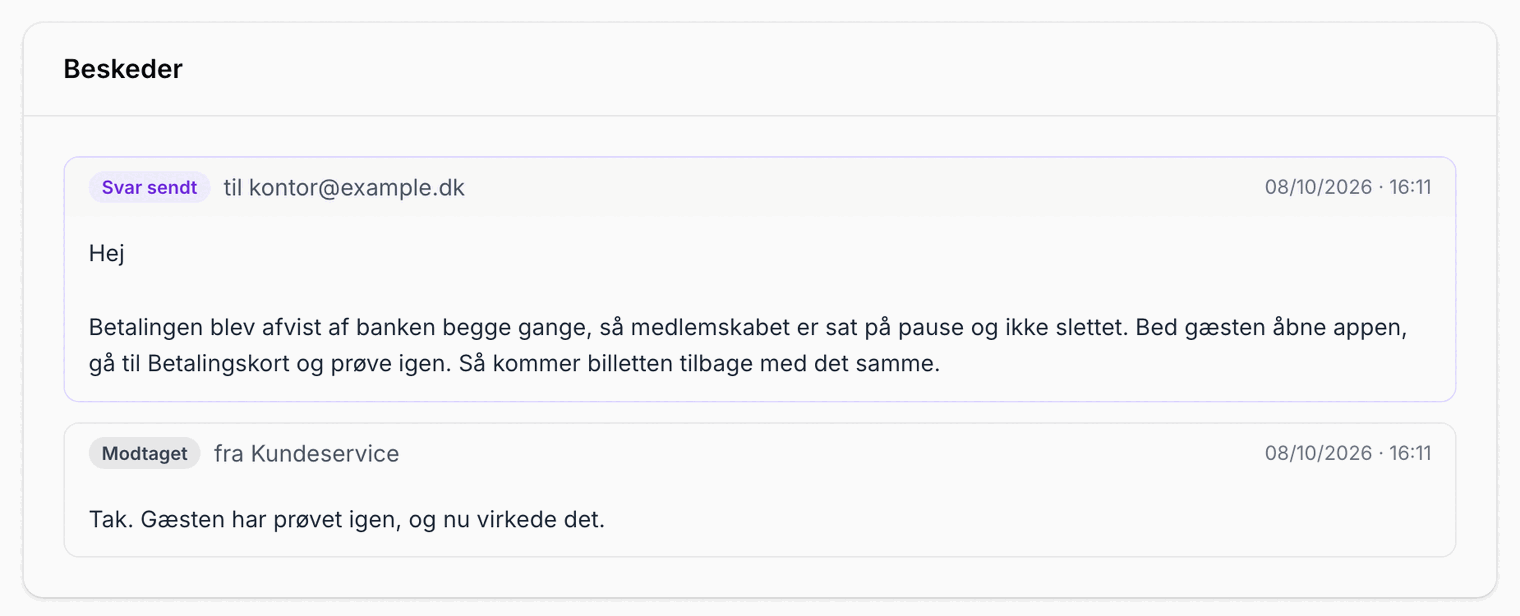
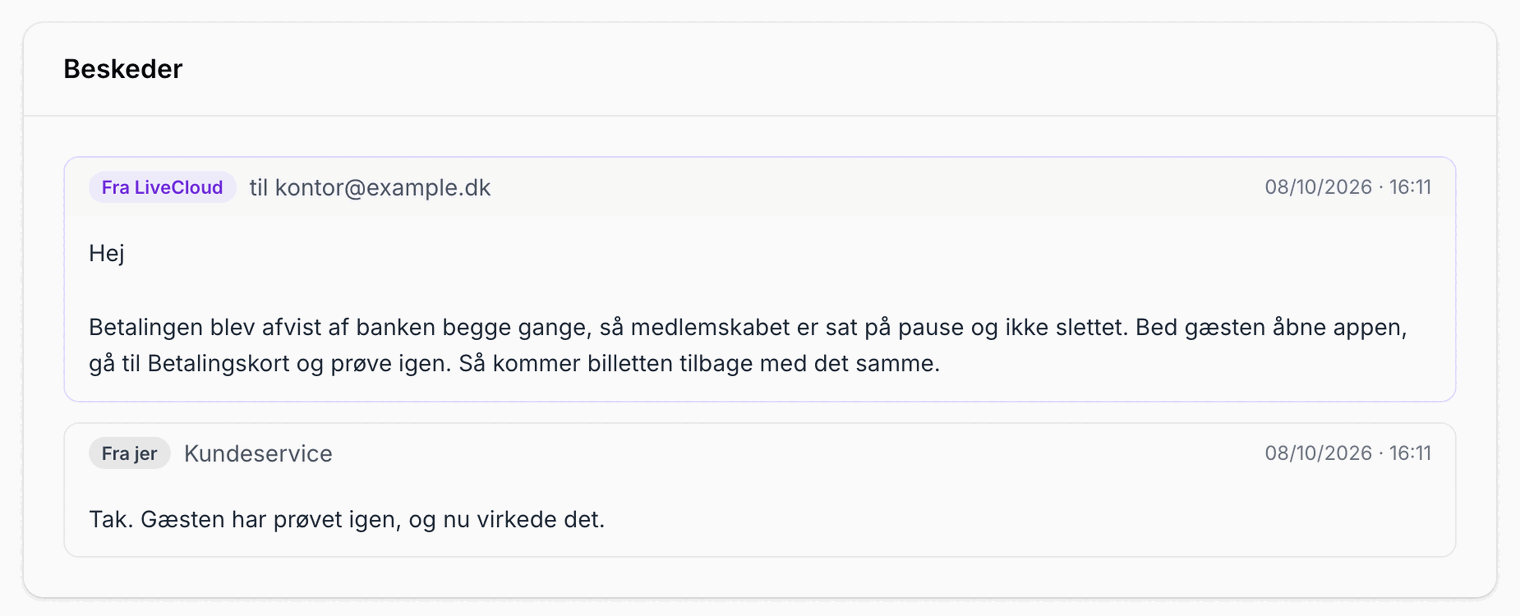
docs(guides): support guide - write on the case in the system, new message labels

Changed region(s): [[0.0618, 0.2776, 0.3401, 0.3393], [0.0618, 0.7094, 0.2474, 0.7711]]

diff --git a/personale-guides/support-kundeservice.html b/personale-guides/support-kundeservice.html
@@ -171,7 +171,7 @@
     <li>Tryk <span class="chip">Opret</span>.</li>
   </ol>
   <p class="warn"><b>Haster det, og rammer det mange gæster?</b> Sæt <b>Prioritet</b> til <span class="chip">Akut</span>, og slå <b>Det blokerer gæster lige nu</b> til, før I trykker Opret.</p>
-  <p class="ctx">Brug <span class="chip">Opret sag</span> og ikke <span class="chip">Opret hurtigt</span>. En hurtig sag har kun en overskrift, og resten kan I ikke selv fylde på bagefter.</p>
+  <p class="ctx">Svaret fra LiveCloud kommer på sagen og som mail til den, der oprettede sagen.</p>
   <div class="shots"><figure class="narrow">
     <img src="img/support-system/meld-en-fejl.png" alt="Formularen Meld en fejl" width="1520" height="1997" loading="lazy">
     <figcaption><b>Formularen "Meld en fejl".</b> Felter med en stjerne skal udfyldes.</figcaption>
@@ -209,18 +209,18 @@
   </table>
   <div class="shots"><figure>
     <img src="img/support-system/beskeder.png" alt="Beskeder på en sag" width="1520" height="616" loading="lazy">
-    <figcaption><b>Beskeder.</b> "Svar sendt" er LiveClouds svar til jer. "Modtaget" er det, I har skrevet.</figcaption>
+    <figcaption><b>Beskeder.</b> "Fra LiveCloud" er svaret til jer. "Fra jer" er det, I selv har skrevet.</figcaption>
   </figure></div>
   </div>
 
   <div class="unit">
   <h3 id="svar">Svar og nye oplysninger</h3>
+  <p class="ctx">I kan skrive videre på en sag på to måder. Begge lander under <b>Beskeder</b> på sagen.</p>
   <ol class="steps">
-    <li>Svar på mailen fra LiveCloud Support.</li>
-    <li>Behold sagens nummer i emnefeltet, fx <b>[SUP-1006]</b>.</li>
-    <li>Send. Svaret lander på samme sag under <b>Beskeder</b>.</li>
+    <li><b>I systemet:</b> åbn sagen, og tryk <span class="chip">Skriv til LiveCloud</span>. Skriv beskeden, og tryk <span class="chip">Send</span>.</li>
+    <li><b>Pr. mail:</b> svar på mailen fra LiveCloud Support, og behold sagens nummer i emnefeltet, fx <b>[SUP-1006]</b>.</li>
   </ol>
-  <p class="ctx">Er sagen løst eller lukket, åbner den igen af sig selv, når I svarer. Knappen <span class="chip">Svar indmelder</span> bruges af LiveCloud. Den sender en mail til den, der meldte sagen.</p>
+  <p class="ctx">Sagen bliver markeret hos LiveCloud som afventer svar. Er sagen løst eller lukket, åbner den igen af sig selv.</p>
   </div>
 
   <div class="unit">
@@ -275,7 +275,7 @@
     <li><b>Jeres spørgsmål øverst.</b> Gæstens mail kommer nedenunder, videresendt i sin helhed.</li>
     <li><b>Ordrenummer og gæstens e-mail med hver gang.</b> Så kan LiveCloud finde gæsten uden at spørge jer.</li>
     <li><b>Aldrig CPR-numre, kortnumre eller adgangskoder.</b> Har gæsten selv skrevet dem, så slet dem, før I videresender.</li>
-    <li><b>Følg op på sagen, ikke i en ny mail.</b> Behold sagens nummer i emnefeltet.</li>
+    <li><b>Følg op på sagen, ikke i en ny mail.</b> Skriv på sagen, eller svar på mailen med sagens nummer i emnefeltet.</li>
     <li><b>Kig under Samme problem først.</b> Står løsningen der, behøver I ikke at vente på svar.</li>
     <li><b>Markér sagen som løst,</b> når gæsten har fået svar.</li>
   </ul>
@@ -287,9 +287,9 @@
     <tr><th>Det sker</th><th>Gør sådan</th></tr>
     <tr><td>Jeg kan ikke logge ind</td><td>Tryk <span class="chip">Glemt din adgangskode?</span> på login-siden. Virker det ikke, så skriv til support@livecloud.dk.</td></tr>
     <tr><td>Jeg fik ingen kvittering på min mail</td><td>Se i uønsket post. Kig derefter under Sager. Står sagen der, er den modtaget.</td></tr>
-    <tr><td>Mit svar blev til en ny sag</td><td>Sagens nummer manglede i emnefeltet. Svar på kvitteringen for den nye sag, og skriv det gamle sagsnummer. Så lægger LiveCloud de to sammen.</td></tr>
+    <tr><td>Mit svar blev til en ny sag</td><td>Sagens nummer manglede i emnefeltet. Åbn den nye sag, tryk <span class="chip">Skriv til LiveCloud</span>, og skriv det gamle sagsnummer. Så lægger LiveCloud de to sammen.</td></tr>
     <tr><td>Jeg kan ikke finde en sag</td><td>Se under <span class="chip">Arkiverede</span> og <span class="chip">Alle</span>, og søg på et ord fra overskriften.</td></tr>
-    <tr><td>Sagen står som Løst, men gæsten har stadig problemet</td><td>Tryk <span class="chip">Genåbn</span>, eller svar på mailen fra LiveCloud Support.</td></tr>
+    <tr><td>Sagen står som Løst, men gæsten har stadig problemet</td><td>Tryk <span class="chip">Genåbn</span>, eller skriv på sagen. Så åbner den igen.</td></tr>
   </table>
   </div>
 
